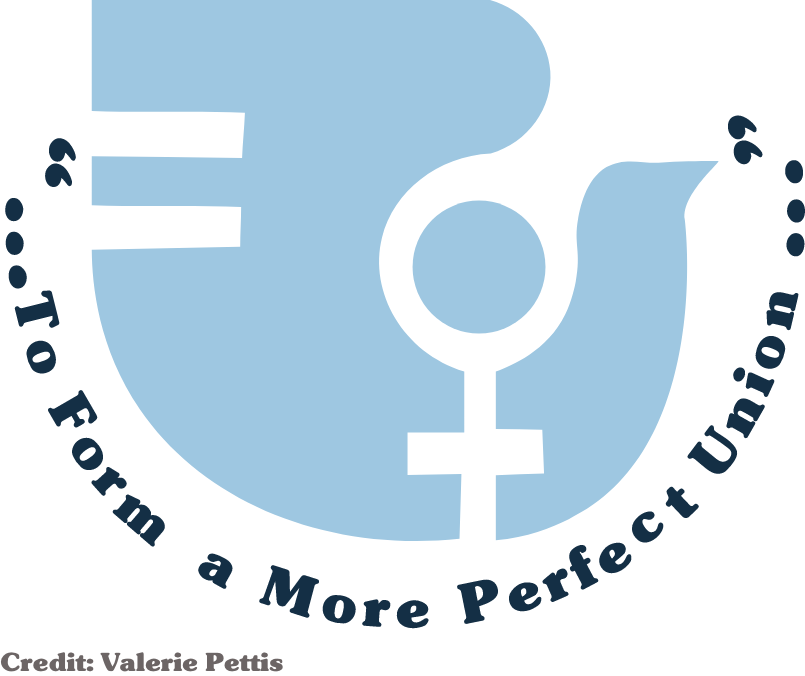
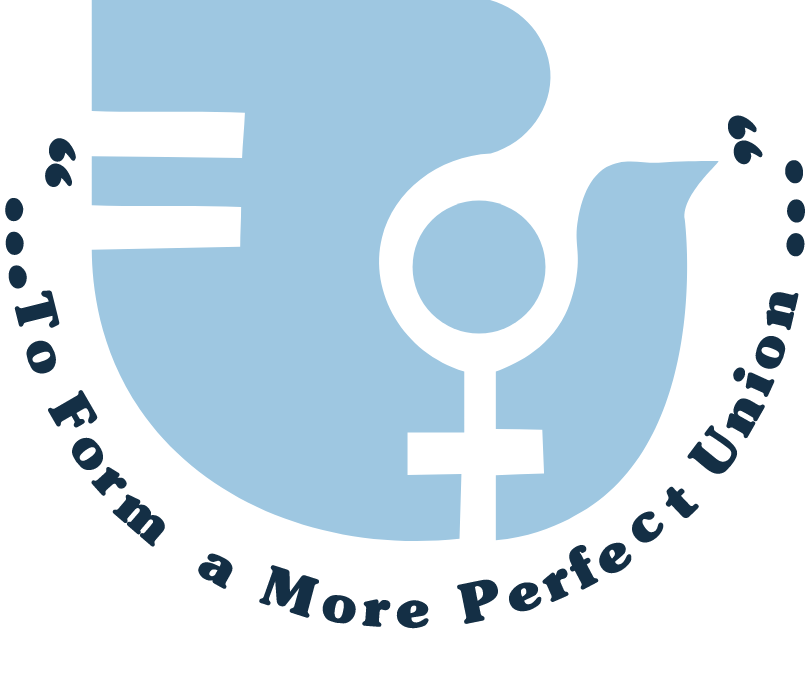
Essay Layout 3 added HeaderIllustration pulled from Strapi (not hard coded anymore)

Changed region(s): [[0.0, 0.963, 0.3727, 0.9941]]

diff --git a/src/Pages/Essay/Layouts/Layout3.js b/src/Pages/Essay/Layouts/Layout3.js
@@ -1,5 +1,4 @@
 import React from 'react'
-import toform from "../res/toform.png";
 import "./Layout3.css";
 import ReactMarkdown from 'react-markdown';
 
@@ -8,25 +7,25 @@ function Layout3({props}) {
     return (
         <div className="layout3">
             <h1>{props.header}</h1>
-            <img src={toform} alt=""/>
+            <img src={props.HeaderIllustration} alt=""/>
             <p className="layout3_quote">{props.quote}</p>
-            <p className="layout3_section1">
+            <div className="layout3_section1">
                 <ReactMarkdown>
                 {props.section1_p1}
                 </ReactMarkdown>
                 <ReactMarkdown>
                 {props.section1_p2}
                 </ReactMarkdown>
-            </p>
+            </div>
             <ReactMarkdown className="layout3_section2">
                 {props.section2}
             </ReactMarkdown>
-            <p className="layout3_section3">
+            <div className="layout3_section3">
                 <ReactMarkdown className="layout3_section3Text">
                     {props.section3Text}
                 </ReactMarkdown>
                 <p className="layout3_section3Quote">{props.section3Quote}</p>
-            </p>
+            </div>
             <ReactMarkdown className="layout3_section2">
                 {props.section4}
             </ReactMarkdown>

diff --git a/src/Pages/Essay/Essay.js b/src/Pages/Essay/Essay.js
@@ -32,10 +32,14 @@ function Essay() {
             function processImage(img) {
                 // [imgurl, credit]
                 try {
-                    return [
-                        [VARIABLES.fetchBaseUrl, img.Image[0].url].join(''),
-                        img.ImgCredit
-                    ];
+                    if (img !== null) {
+                        if (img.Image.length !== 0) {
+                            return [
+                                [VARIABLES.fetchBaseUrl, img.Image[0].url].join(''),
+                                img.ImgCredit
+                            ];
+                        }
+                    }
                 } catch(err) {
                     console.log(err);
                 }
@@ -60,6 +64,7 @@ function Essay() {
                 Image3: processImage(data.Image3),
                 MainImage: processImage(data.MainImage),
                 TallImage: processImage(data.TallImage),
+                HeaderIllustration: data.HeaderIllustration ? [VARIABLES.fetchBaseUrl, data.HeaderIllustration.url].join('') : ''
             })
         });
         window.scrollTo(0, 0);

diff --git a/src/Pages/Essay/Layouts/Layout3.css b/src/Pages/Essay/Layouts/Layout3.css
@@ -35,8 +35,8 @@
     margin: auto;
     margin-bottom: 60rem;
     max-width: 100%;
-    height: auto;
-    width: 40%;
+    height: 50%;
+    width: auto;
 }
 
 .layout3_quote {
